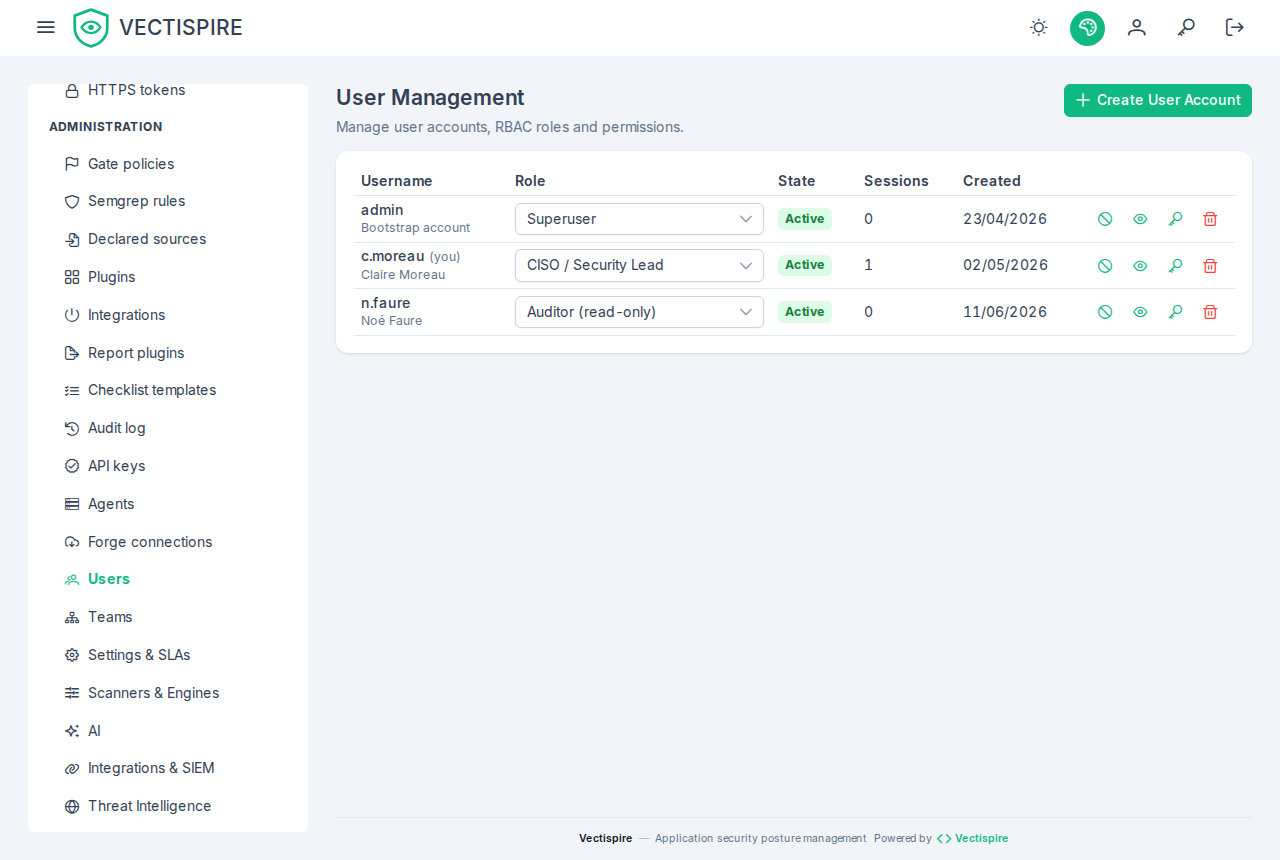
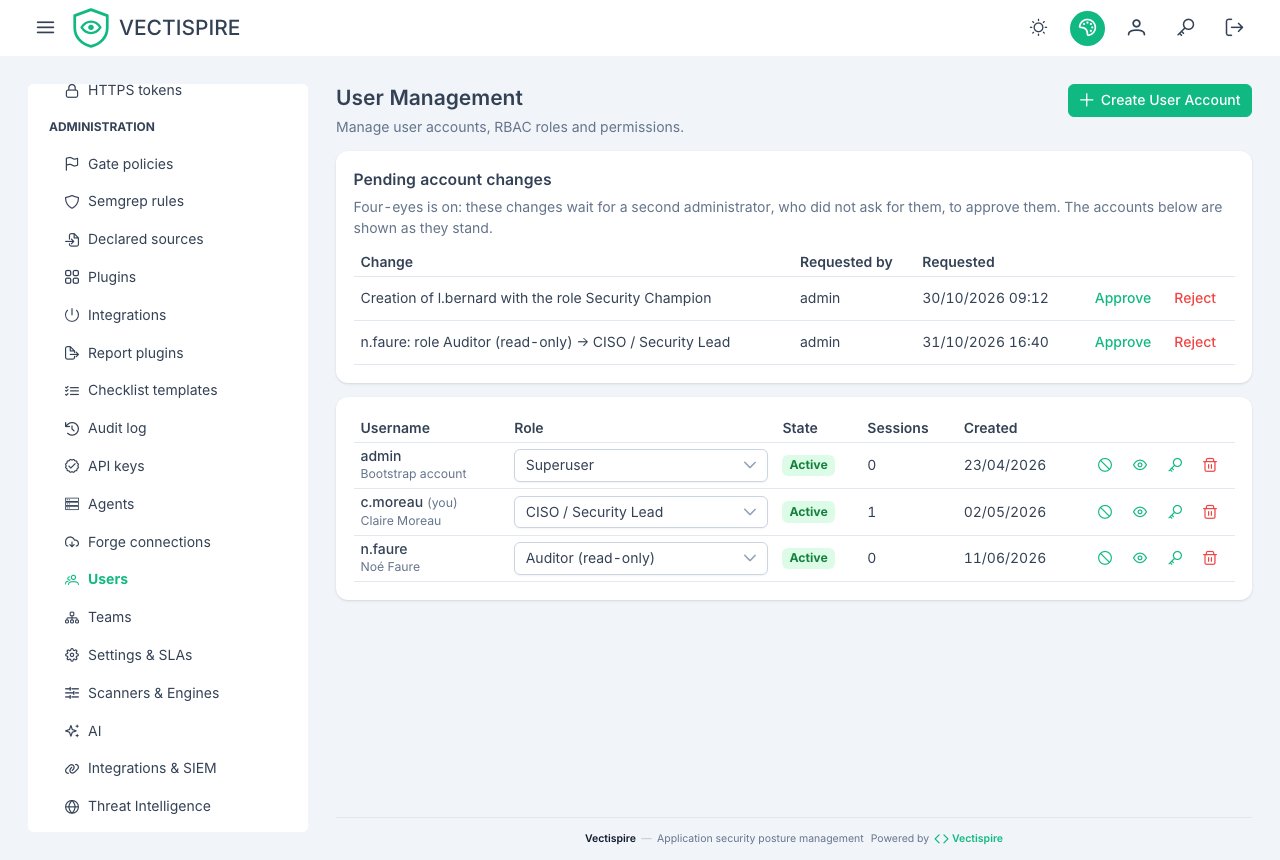
test(e2e): the Users screenshot shows account changes waiting for a second administrator
The Users screen now asks /api/v1/account-requests, which the documentation
screenshot left to the catch-all, and screens.spec refused it in both
locales. Stubbed with two requests an administrator filed — a creation with
a role that approves and a raise to one — so the capture shows the four-eyes
queue; both screenshots regenerated.

Verified: screens.spec "users" passes in screens-en and screens-fr; lint and
format:check green.

diff --git a/vectispire-angular/e2e/screens.spec.ts b/vectispire-angular/e2e/screens.spec.ts
@@ -2583,10 +2583,46 @@ test.describe('documentation screenshots', () => {
             ],
             total: 3
         });
+        // Four-eyes on: what an administrator filed and a second one has to approve leads the page —
+        // a creation with a role that approves, and a raise to one.
+        await stub(page, '**/api/v1/account-requests*', {
+            requests: [
+                {
+                    id: 7,
+                    kind: 'create',
+                    accountId: null,
+                    username: 'l.bernard',
+                    email: 'l.bernard@example.invalid',
+                    displayName: 'Léa Bernard',
+                    heldRole: null,
+                    requestedRole: 'SECURITY_CHAMPION',
+                    passwordReset: true,
+                    requestedById: 1,
+                    requestedBy: 'admin',
+                    requestedAt: '2026-10-30T09:12:00Z'
+                },
+                {
+                    id: 8,
+                    kind: 'change',
+                    accountId: 3,
+                    username: 'n.faure',
+                    email: null,
+                    displayName: null,
+                    heldRole: 'AUDITOR',
+                    requestedRole: 'CISO',
+                    passwordReset: false,
+                    requestedById: 1,
+                    requestedBy: 'admin',
+                    requestedAt: '2026-10-31T16:40:00Z'
+                }
+            ],
+            total: 2
+        });
         await enterApp(page, locale);
         await openScreen(page, '/users');
 
         await expect(page.getByText('c.moreau').first()).toBeVisible({ timeout: 15_000 });
+        await expect(page.locator('#account-requests [data-request="7"]')).toBeVisible();
         await shoot(page, 'users', locale);
     });
 
